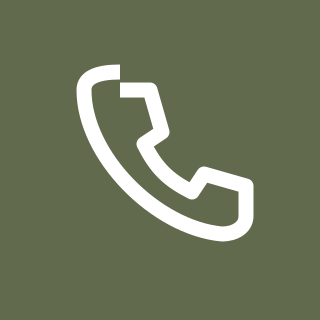
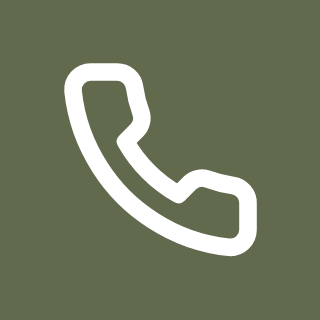
fix

Changed region(s): [[0.1875, 0.1875, 0.8125, 0.8125], [0.625, 0.5, 0.6562, 0.5312]]

diff --git a/emails/novatek-signature.html b/emails/novatek-signature.html
@@ -4,18 +4,25 @@
 <body style="margin:0;padding:0;background:#eeeeec;font-family:Arial,Helvetica,sans-serif;color:#171717">
 <table role="presentation" width="100%" cellpadding="0" cellspacing="0" border="0" style="border-collapse:collapse;background:#eeeeec"><tr><td align="center">
 <table role="presentation" width="1000" cellpadding="0" cellspacing="0" border="0" style="width:100%;max-width:1000px;border-collapse:collapse;background:#fff">
-  <tr><td style="padding:52px 66px 20px">
-    <table role="presentation" width="100%" cellpadding="0" cellspacing="0" border="0" style="border-collapse:collapse"><tr>
-      <td valign="top">
-        <div style="font-size:15px;line-height:22px">Best regards,</div><div style="width:47px;height:1px;background:#626a4d;margin:16px 0 17px"></div>
-        <div style="font-size:29px;line-height:34px;font-weight:700">Andrew Slavov</div>
-        <div style="color:#626a4d;font-size:11px;line-height:18px;font-weight:700;letter-spacing:1.6px">FOUNDER &amp; LEAD MECHANICAL ENGINEER</div>
-      </td>
-      <td valign="middle" align="right" width="170"><img src="https://novatek-engineering.com/assets/novatek/email-signature/logo-new.png" width="150" alt="Novatek Engineering" style="display:block;width:150px;height:auto;border:0"></td>
-    </tr></table>
+  <tr><td style="padding:52px 66px 20px 32px">
+    <table role="presentation" width="100%" cellpadding="0" cellspacing="0" border="0" style="border-collapse:collapse">
+      <tr>
+        <td valign="top">
+          <div style="font-size:15px;line-height:22px">Best regards,</div><div style="width:47px;height:1px;background:#626a4d;margin:16px 0 17px"></div>
+        </td>
+        <td width="170"></td>
+      </tr>
+      <tr>
+        <td valign="middle">
+          <div style="font-size:29px;line-height:34px;font-weight:700">Andrew Slavov</div>
+          <div style="color:#626a4d;font-size:11px;line-height:18px;font-weight:700;letter-spacing:1.6px">FOUNDER &amp; LEAD MECHANICAL ENGINEER</div>
+        </td>
+        <td valign="middle" align="right" width="170"><img src="https://novatek-engineering.com/assets/novatek/email-signature/logo-new.png" width="150" alt="Novatek Engineering" style="display:block;width:150px;height:auto;border:0"></td>
+      </tr>
+    </table>
   </td></tr>
-  <tr><td style="padding:0 66px"><div style="height:1px;background:#d9d9d5"></div></td></tr>
-  <tr><td style="padding:33px 66px 21px">
+  <tr><td style="padding:0 66px 0 32px"><div style="height:1px;background:#d9d9d5"></div></td></tr>
+  <tr><td style="padding:33px 66px 21px 32px">
     <table role="presentation" width="100%" cellpadding="0" cellspacing="0" border="0" style="border-collapse:collapse"><tr>
       <td width="51%" valign="top" style="padding-right:42px;border-right:1px solid #d9d9d5">
         <div style="color:#626a4d;font-size:15px;line-height:19px;font-weight:700;letter-spacing:1px">PRECISION ENGINEERING.<br>RELIABLE SOLUTIONS.</div>
@@ -31,7 +38,7 @@
       </td>
     </tr></table>
   </td></tr>
-  <tr><td style="padding:0 0 22px 66px">
+  <tr><td style="padding:0 0 22px 32px">
     <table role="presentation" width="100%" cellpadding="0" cellspacing="0" border="0" style="border-collapse:collapse"><tr>
       <td width="49%" valign="middle" style="color:#626a4d;font-size:9px;line-height:18px;font-weight:700;white-space:nowrap">
         <a href="https://novatek-engineering.com/" style="color:#626a4d;text-decoration:none"><img src="https://novatek-engineering.com/assets/novatek/email-signature/document.png" width="21" height="21" alt="" style="display:inline-block;vertical-align:middle;border:0">&nbsp; COMPANY PROFILE</a>&nbsp; | &nbsp;<a href="https://novatek-engineering.com/" style="color:#626a4d;text-decoration:none"><img src="https://novatek-engineering.com/assets/novatek/email-signature/globe-outline.png" width="21" height="21" alt="" style="display:inline-block;vertical-align:middle;border:0">&nbsp; WEBSITE</a>&nbsp; | &nbsp;<a href="https://novatek-engineering.com/" style="color:#626a4d;text-decoration:none"><img src="https://novatek-engineering.com/assets/novatek/email-signature/linkedin.png" width="21" height="21" alt="" style="display:inline-block;vertical-align:middle;border:0">&nbsp; LINKEDIN</a>&nbsp; | &nbsp;<a href="https://novatek-engineering.com/" style="color:#626a4d;text-decoration:none"><img src="https://novatek-engineering.com/assets/novatek/email-signature/folder.png" width="23" height="21" alt="" style="display:inline-block;vertical-align:middle;border:0">&nbsp; PORTFOLIO</a>
@@ -39,7 +46,7 @@
       <td width="51%" style="padding-left:32px"><div style="height:98px;background:#34382d url('https://novatek-engineering.com/assets/novatek/email-signature/quality-photo.jpg') center 40%/cover no-repeat"><div style="height:98px;color:#fff;font-size:12px;line-height:18px;letter-spacing:1.5px;padding:29px 42px;box-sizing:border-box">QUALITY. ACCURACY.<br>RELIABILITY.<div style="width:30px;height:1px;background:#89906f;margin-top:11px"></div></div></div></td>
     </tr></table>
   </td></tr>
-  <tr><td style="background-color:#20211f;background-image:radial-gradient(#363832 1px,transparent 1px);background-size:8px 8px;padding:27px 70px 29px;color:#aaa99f;font-size:8.5px;line-height:14px">
+  <tr><td style="background-color:#20211f;background-image:radial-gradient(#363832 1px,transparent 1px);background-size:8px 8px;padding:27px 70px 29px 32px;color:#aaa99f;font-size:8.5px;line-height:14px">
     <table role="presentation" width="100%" cellpadding="0" cellspacing="0" border="0"><tr><td width="45" valign="top"><img src="https://novatek-engineering.com/assets/novatek/email-signature/shield.png" width="32" height="32" alt="" style="display:block;border:0"></td><td><strong style="color:#89906f">КОНФИДЕНЦИАЛНОСТ:</strong> Този имейл и всички приложени файлове могат да съдържат конфиденциална информация, която е правно защитена. Ако не сте предназначеният получател или отговорно лице за доставката, Ви уведомяваме, че всяко разкриване, копиране, разпространение или използване на информацията, съдържаща се в този имейл или приложените към него файлове – Е СТРОГО ЗАБРАНЕНО. Ако сте получили този имейл по погрешка, моля незабавно уведомете подателя и изтрийте оригиналното съобщение и файловете, без да ги четете или запазвате по какъвто и да е начин.</td></tr>
     <tr><td valign="top" style="padding-top:16px"><img src="https://novatek-engineering.com/assets/novatek/email-signature/lock.png" width="28" height="28" alt="" style="display:block;border:0"></td><td style="padding-top:16px"><strong style="color:#89906f">CONFIDENTIALITY NOTICE:</strong> This e-mail and any files attached may contain confidential information that is legally privileged. If you are not the intended recipient, or a person responsible for delivering it, you are hereby notified that any disclosure, copying, distribution or use of any of the information contained in or attached to this transmission is STRICTLY PROHIBITED. If you have received this transmission in error, please delete the original transmission and its attachments without reading or saving them in any manner and notify the sender immediately.</td></tr></table>
   </td></tr>